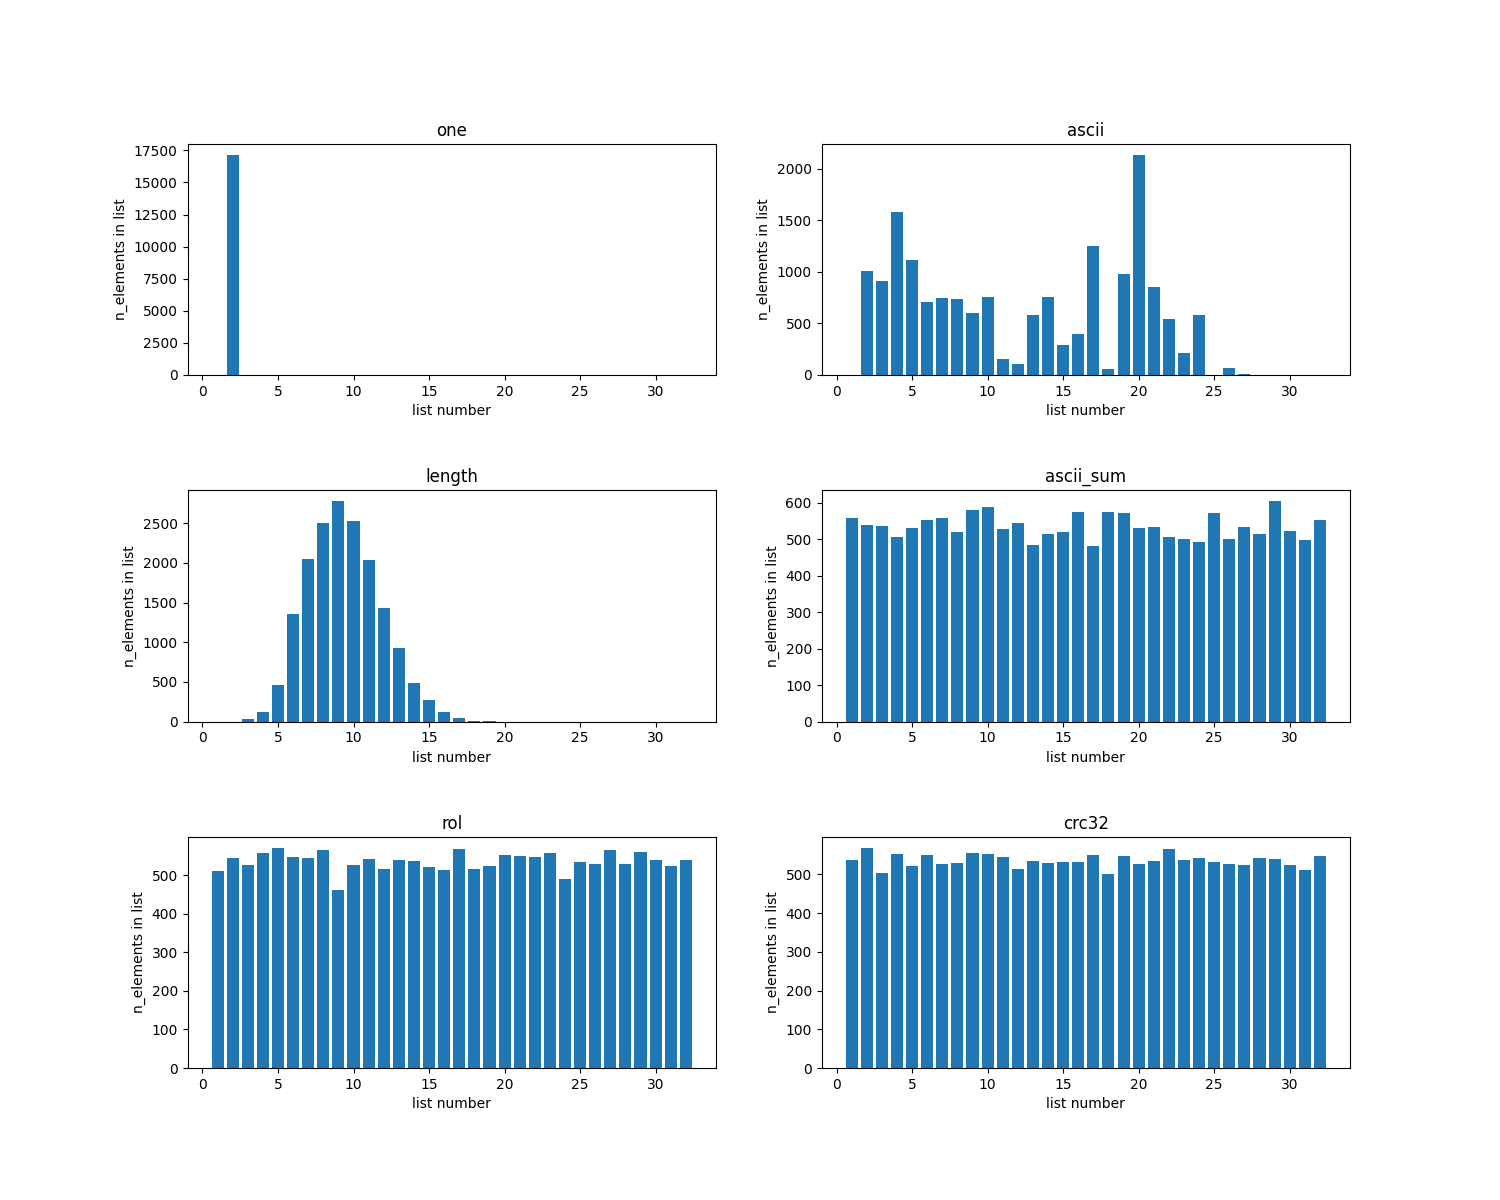
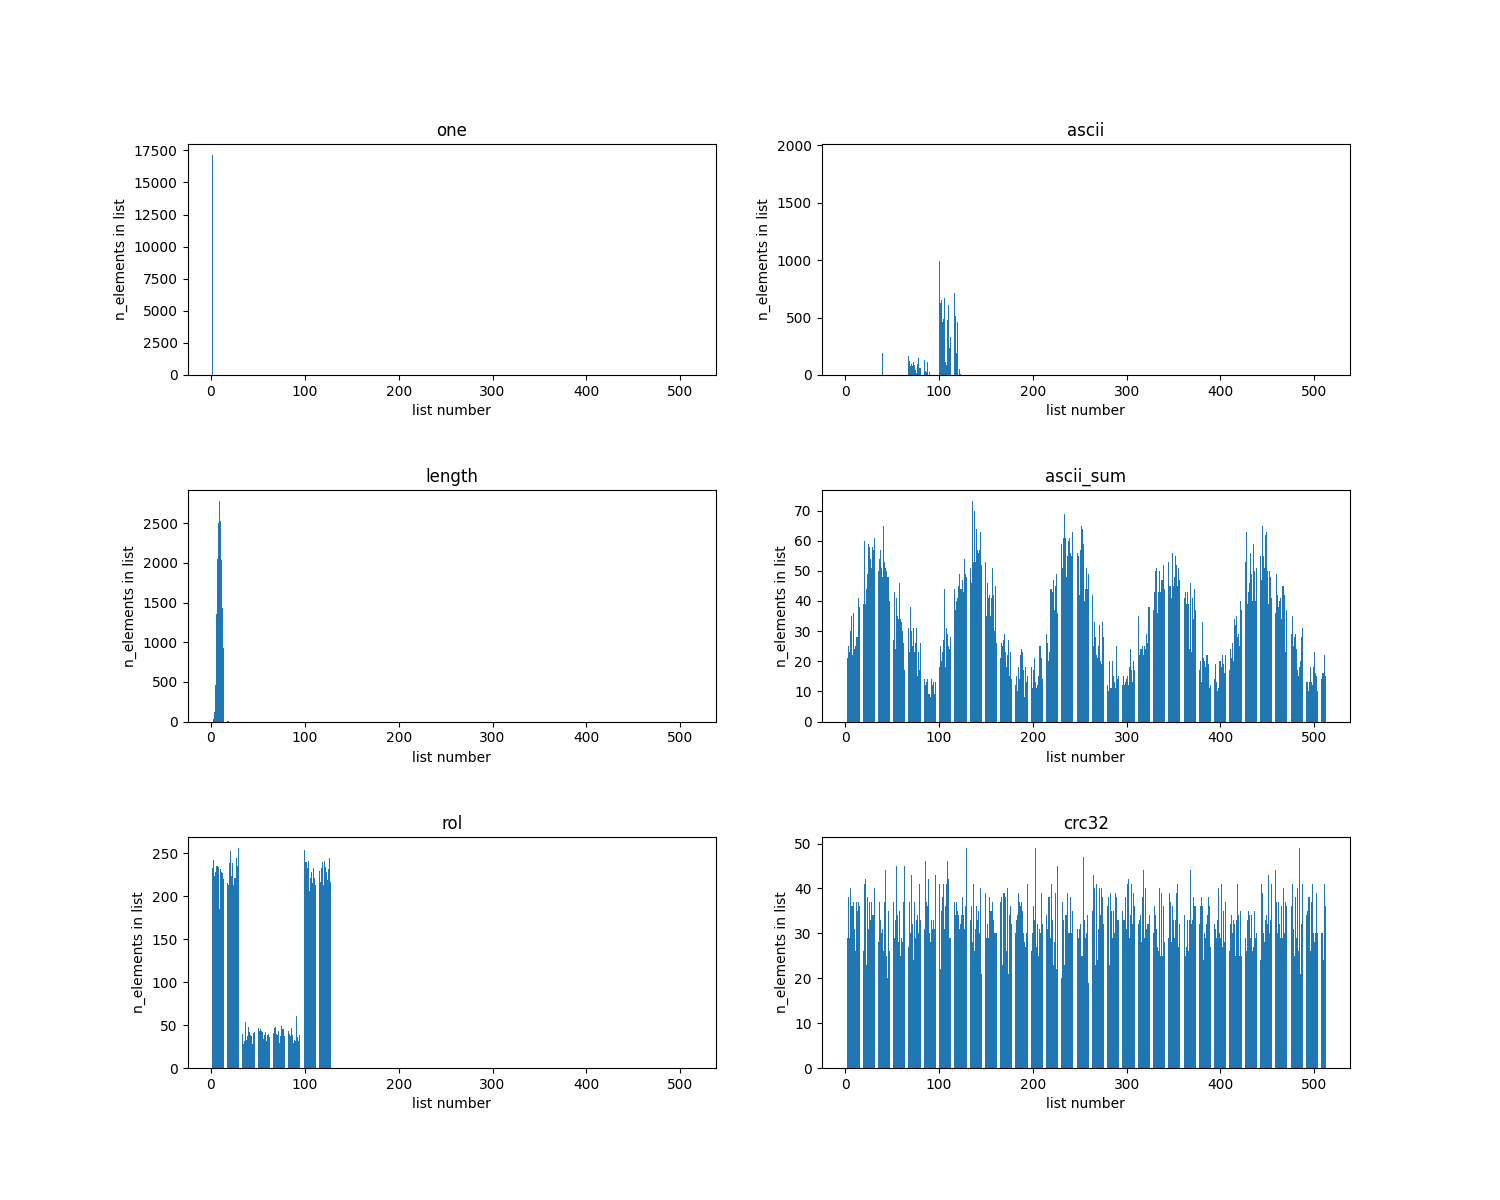
Added README auto generator

diff --git a/utils/write_readme.cpp b/utils/write_readme.cpp
@@ -1,0 +1,81 @@
+#include <stdio.h>
+#include <string.h>
+#include <cstdlib>
+#include "../include/config.h"
+#include "../include/text.h"
+
+int paste_perf_in_readme ();
+
+static const int N_FILES2PASTE = 11;
+
+int main ()
+{
+        return paste_perf_in_readme();
+}
+
+int paste_perf_in_readme ()
+{
+        log_init("hashtable_logs.html");
+
+        char perf_file_name[64] = {};
+
+        FILE *readme_file = fopen("utils/RAW_README.md", "r");
+        text_t readme = {};
+        get_text(readme_file, &readme, "utils/RAW_README.md");
+        fclose(readme_file);
+
+        size_t readme_chars_left = readme.n_chars;
+        char *readme_symb = readme.buf;
+
+        size_t new_readme_n_chars = 0;
+        char *new_readme = (char*) calloc(readme.n_chars + N_FILES2PASTE * 256*4, sizeof(char));
+        if (!new_readme)
+                return NULL_CALLOC;
+        char *symb_ptr   = new_readme;
+
+        for (int i = 1; i < N_FILES2PASTE; i++) {
+                sprintf(perf_file_name, "perf_stats/perf_stat%d.txt", i);
+                FILE *input_file = fopen(perf_file_name, "r");
+                text_t text = {};
+                get_text(input_file, &text, perf_file_name);
+                fclose(input_file);
+
+                while (readme_chars_left) {
+                        if (!strncmp(readme_symb, "!*!*!*", 6)) {
+                                memcpy(symb_ptr, text.buf, text.n_chars);
+                                readme_symb       += 12 + 2;
+                                readme_chars_left -= 12 + 2;
+                                symb_ptr += text.n_chars;
+                                new_readme_n_chars += text.n_chars;
+                                break;
+                        } else {
+                                *symb_ptr = *readme_symb;
+                                symb_ptr++;
+                                readme_symb++;
+                                new_readme_n_chars++;
+                                readme_chars_left--;
+                        }
+                }
+                text_dtor(&text);
+        }
+
+        while (readme_chars_left) {
+                *symb_ptr = *readme_symb;
+                symb_ptr++;
+                readme_symb++;
+                new_readme_n_chars++;
+                readme_chars_left--;
+        }
+
+        FILE *output = fopen("README.md", "w");
+        fwrite(new_readme, sizeof(char), new_readme_n_chars, output);
+        fclose(output);
+
+        free(new_readme);
+
+        text_dtor(&readme);
+
+        log_dtor();
+
+        return 0;
+}

diff --git a/utils/text.cpp b/utils/text.cpp
@@ -140,9 +140,9 @@ int aligne_words (text_t *text)
         assert(text);
 
         word_t *words = text->words;
-        char *aligned_words = (char*) calloc(text->n_words * m256_BYTE_CAPACITY + 1, sizeof(char));
-        // char *aligned_words = (char*) aligned_alloc(m256_BYTE_CAPACITY,
-        //                                            (text->n_words * m256_BYTE_CAPACITY + 1) * sizeof(char));
+        // char *aligned_words = (char*) calloc(text->n_words * m256_BYTE_CAPACITY + 1, sizeof(char));
+        char *aligned_words = (char*) aligned_alloc(m256_BYTE_CAPACITY,
+                                                   (text->n_words * m256_BYTE_CAPACITY + 1) * sizeof(char));
 
         if (!aligned_words) {
                 log(1, "NULL CALLOC.");

diff --git a/main.cpp b/main.cpp
@@ -11,8 +11,6 @@ int main (int argc, char *argv[])
 {
         log_init("hashtable_logs.html");
 
-        // test_all_hash_funcs("input.txt");
-
         FILE *input_file = fopen("input.txt", "r");
         text_t text = {};
         get_text(input_file, &text, "input.txt");

diff --git a/include/utils.h b/include/utils.h
@@ -6,7 +6,7 @@ const int DEFAULT_N_VARS  = 16;
 const int DEFAULT_N_FUNCS = 16;
 const int DEFAULT_N_TABLS =  4;
 
-const int HASHTABLE_SIZE  = 32;
+const int HASHTABLE_SIZE  = 512;
 
 const int m256_BYTE_CAPACITY   = 32;
 

diff --git a/utils/RAW_README.md b/utils/RAW_README.md
@@ -50,20 +50,7 @@ Without any optimisations we have this results:
 
 <pre>
 
-# started on Wed Apr 26 10:00:16 2023
-
-
- Performance counter stats for './hash-tables.out' (5 runs):
-
-     9,814,693,083      cycles:u                                                                ( +- 14.23% )
-     7,346,503,526      instructions:u                   #    1.23  insn per cycle              ( +- 14.14% )
-       144,168,623      cache-references:u                                                      ( +- 14.21% )
-        17,306,438      cache-misses:u                   #   19.986 % of all cache refs         ( +- 14.21% )
-        68,989,393      bus-cycles:u                                                            ( +- 14.26% )
-
-            0.6185 +- 0.0295 seconds time elapsed  ( +-  4.77% )
-
-
+!*!*!* 1*!*!*!
 
 </pre>
 
@@ -137,20 +124,7 @@ bool find_word_in_list (list_t *list, word_t *word, size_t position)
 
 <pre>
 
-# started on Wed Apr 26 10:00:20 2023
-
-
- Performance counter stats for './hash-tables.out' (5 runs):
-
-     9,586,179,396      cycles:u                                                                ( +- 14.35% )
-     7,130,700,603      instructions:u                   #    1.23  insn per cycle              ( +- 14.14% )
-       173,801,521      cache-references:u                                                      ( +- 14.11% )
-        19,419,971      cache-misses:u                   #   18.632 % of all cache refs         ( +- 15.58% )
-        67,687,892      bus-cycles:u                                                            ( +- 14.42% )
-
-            0.6054 +- 0.0365 seconds time elapsed  ( +-  6.03% )
-
-
+!*!*!* 2*!*!*!
 
 </pre>
 
@@ -189,20 +163,7 @@ bool avx_wordcmp (word_t *word1, word_t *word2)
 
 <pre>
 
-# started on Wed Apr 26 10:00:24 2023
-
-
- Performance counter stats for './hash-tables.out' (5 runs):
-
-    10,068,651,642      cycles:u                                                                ( +- 14.51% )
-     7,972,085,027      instructions:u                   #    1.32  insn per cycle              ( +- 14.14% )
-       115,153,487      cache-references:u                                                      ( +- 14.19% )
-        28,541,833      cache-misses:u                   #   41.399 % of all cache refs         ( +- 16.38% )
-        73,387,191      bus-cycles:u                                                            ( +- 14.66% )
-
-            0.6800 +- 0.0356 seconds time elapsed  ( +-  5.24% )
-
-
+!*!*!* 3*!*!*!
 
 </pre>
 
@@ -276,20 +237,7 @@ Result of this optimisation is pretty good. Time performance boost is 34% and mi
 
 <pre>
 
-# started on Wed Apr 26 10:00:29 2023
-
-
- Performance counter stats for './hash-tables.out' (5 runs):
-
-     4,541,677,015      cycles:u                                                                ( +- 14.42% )
-     4,555,606,132      instructions:u                   #    1.72  insn per cycle              ( +- 14.14% )
-       110,739,757      cache-references:u                                                      ( +- 14.11% )
-        19,155,340      cache-misses:u                   #   28.832 % of all cache refs         ( +- 15.82% )
-        33,017,712      bus-cycles:u                                                            ( +- 14.57% )
-
-            0.3108 +- 0.0165 seconds time elapsed  ( +-  5.29% )
-
-
+!*!*!* 4*!*!*!
 
 </pre>
 
@@ -332,20 +280,7 @@ int find_elem_inlined_asm (hashtable_t *hashtable, word_t *word)
 
 <pre>
 
-# started on Wed Apr 26 10:00:31 2023
-
-
- Performance counter stats for './hash-tables.out' (5 runs):
-
-     4,453,677,629      cycles:u                                                                ( +- 14.30% )
-     4,544,198,235      instructions:u                   #    1.74  insn per cycle              ( +- 14.14% )
-       111,936,068      cache-references:u                                                      ( +- 14.20% )
-        16,761,227      cache-misses:u                   #   25.038 % of all cache refs         ( +- 15.59% )
-        32,062,665      bus-cycles:u                                                            ( +- 14.37% )
-
-            0.3002 +- 0.0191 seconds time elapsed  ( +-  6.35% )
-
-
+!*!*!* 5*!*!*!
 
 </pre>
 
@@ -361,20 +296,7 @@ This part briefly repeats stats from previous part of work but with aligned word
 
 <pre>
 
-# started on Wed Apr 26 10:00:34 2023
-
-
- Performance counter stats for './hash-tables.out' (5 runs):
-
-    10,527,376,585      cycles:u                                                                ( +- 14.10% )
-     7,571,753,098      instructions:u                   #    1.18  insn per cycle              ( +- 14.14% )
-       160,576,595      cache-references:u                                                      ( +- 14.10% )
-        33,964,576      cache-misses:u                   #   34.986 % of all cache refs         ( +- 13.76% )
-        74,579,180      bus-cycles:u                                                            ( +- 14.11% )
-
-            0.6842 +- 0.0289 seconds time elapsed  ( +-  4.22% )
-
-
+!*!*!* 6*!*!*!
 
 </pre>
 
@@ -386,20 +308,7 @@ Stats after recursion deletion:
 
 <pre>
 
-# started on Wed Apr 26 10:00:38 2023
-
-
- Performance counter stats for './hash-tables.out' (5 runs):
-
-    10,271,006,292      cycles:u                                                                ( +- 14.13% )
-     7,345,892,450      instructions:u                   #    1.21  insn per cycle              ( +- 14.14% )
-       202,215,794      cache-references:u                                                      ( +- 14.15% )
-        48,774,689      cache-misses:u                   #   40.320 % of all cache refs         ( +- 14.12% )
-        74,933,277      bus-cycles:u                                                            ( +- 14.15% )
-
-            0.7023 +- 0.0246 seconds time elapsed  ( +-  3.50% )
-
-
+!*!*!* 7*!*!*!
 
 </pre>
 
@@ -434,20 +343,7 @@ Stats after using words compare function:
 
 <pre>
 
-# started on Wed Apr 26 10:00:43 2023
-
-
- Performance counter stats for './hash-tables.out' (5 runs):
-
-    10,068,901,532      cycles:u                                                                ( +- 14.13% )
-     7,657,365,128      instructions:u                   #    1.25  insn per cycle              ( +- 14.14% )
-       127,369,990      cache-references:u                                                      ( +- 14.12% )
-        36,649,114      cache-misses:u                   #   47.933 % of all cache refs         ( +- 13.50% )
-        72,880,125      bus-cycles:u                                                            ( +- 14.07% )
-
-            0.6805 +- 0.0196 seconds time elapsed  ( +-  2.88% )
-
-
+!*!*!* 8*!*!*!
 
 </pre>
 
@@ -459,20 +355,7 @@ Stats after using crc32 in assembler:
 
 <pre>
 
-# started on Wed Apr 26 10:00:47 2023
-
-
- Performance counter stats for './hash-tables.out' (5 runs):
-
-     4,427,933,627      cycles:u                                                                ( +- 14.38% )
-     4,239,800,041      instructions:u                   #    1.65  insn per cycle              ( +- 14.14% )
-       125,892,902      cache-references:u                                                      ( +- 14.12% )
-        25,828,351      cache-misses:u                   #   34.107 % of all cache refs         ( +- 14.89% )
-        31,926,629      bus-cycles:u                                                            ( +- 14.47% )
-
-            0.3214 +- 0.0198 seconds time elapsed  ( +-  6.17% )
-
-
+!*!*!* 9*!*!*!
 
 </pre>
 
@@ -484,20 +367,7 @@ Stats after inlining:
 
 <pre>
 
-# started on Wed Apr 26 10:00:50 2023
-
-
- Performance counter stats for './hash-tables.out' (5 runs):
-
-     4,369,102,449      cycles:u                                                                ( +- 14.38% )
-     4,228,392,449      instructions:u                   #    1.67  insn per cycle              ( +- 14.14% )
-       125,862,482      cache-references:u                                                      ( +- 14.13% )
-        24,189,442      cache-misses:u                   #   31.946 % of all cache refs         ( +- 15.05% )
-        31,603,709      bus-cycles:u                                                            ( +- 14.53% )
-
-            0.3197 +- 0.0210 seconds time elapsed  ( +-  6.57% )
-
-
+!*!*!*10*!*!*!
 
 </pre>
 
